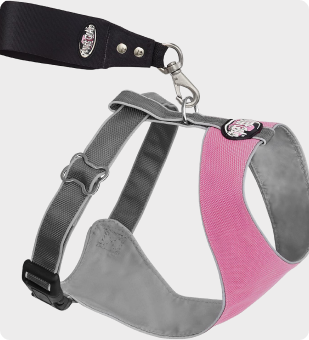
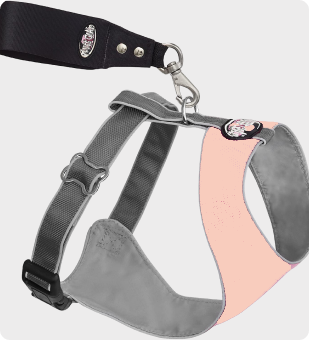
added images for remaining items

Changed region(s): [[0.6408, 0.3529, 0.9612, 0.9706], [0.7282, 0.3529, 0.7573, 0.3824]]

diff --git a/src/shared/items.js b/src/shared/items.js
@@ -1,5 +1,4 @@
 // Dog Harness
-// import StandardImage from '../assets/dogHarness.png'
 import BlackHarness from '../assets/blackHarness.png'
 import RedHarness from '../assets/redHarness.png'
 import PurpleHarness from '../assets/purpleHarness.png'
@@ -10,14 +9,29 @@ import CloseUpTwo from '../assets/dogCloseup.png'
 import Buckle from '../assets/buckle.png'
 // Cat Harness
 import CatHarness from '../assets/catHarness.png'
+import CatHarnessBlack from '../assets/catHarnessBlack.png'
+import CatHarnessPurple from '../assets/catHarnessPurple.png'
+import CatHarnessRed from '../assets/catHarnessRed.png'
 // GPS Collar
 import GPSCollar from '../assets/gpsCollar.png'
+import GPSCollarPink from '../assets/gpsCollarPink.png'
+import GPSCollarBlack from '../assets/gpsCollarBlack.png'
+import GPSCollarRed from '../assets/gpsCollarRed.png'
 // Food Storage
 import FoodStorage from '../assets/foodStorage.png'
+import FoodStorageBlack from '../assets/foodStorageBlack.png'
+import FoodStoragePurple from '../assets/foodStoragePurple.png'
+import FoodStorageRed from '../assets/foodStorageRed.png'
 // Water Storage
 import WaterStorage from '../assets/waterStorage.png'
-// Cat Backpack
-import CatBackpack from '../assets/catBackpack.png'
+import WaterStorageBlack from '../assets/waterStorageBlack.png'
+import WaterStoragePurple from '../assets/waterStoragePurple.png'
+import WaterStorageRed from '../assets/waterStorageRed.png'
+// Travel Backpack
+import TravelBackpack from '../assets/travelBackpack.png'
+import TravelBackpackBlack from '../assets/travelBackpackBlack.png'
+import TravelBackpackPurple from '../assets/travelBackpackPurple.png'
+import TravelBackpackRed from '../assets/travelBackpackRed.png'
 
 let Items = [
 {
@@ -50,9 +64,9 @@ let Items = [
   "details": "Soft, stretchy, and resilient. A cushioned, lightweight harness that’s simple to secure and easy to link up with. An adjustable neck and chest for all shapes and sizes. Three leash attachment points because we all lead in different ways. Probably the smartest harness.",
   "colors": {
     "Strawberry": CatHarness,
-    "Blackberry": "",
-    "Crazyberry": "",
-    "Fire Orange": "",
+    "Blackberry": CatHarnessBlack,
+    "Crazyberry": CatHarnessPurple,
+    "Fire Orange": CatHarnessRed,
   },
   "specs": {
     "Materials": "Soft stretch poly base, woven nylon straps, coated carbon steel D-rings."
@@ -65,10 +79,10 @@ let Items = [
   "price": 30,
   "details": "",
   "colors": {
-    "Strawberry": GPSCollar,
-    "Blackberry": "",
-    "Crazyberry": "",
-    "Fire Orange": "",
+    "Strawberry": GPSCollarPink,
+    "Blackberry": GPSCollarBlack,
+    "Crazyberry": GPSCollar,
+    "Fire Orange": GPSCollarRed,
   },
   "specs": {
     "materials": "Soft stretch poly base, woven nylon straps, coated carbon steel D-rings."
@@ -82,9 +96,9 @@ let Items = [
   "details": "",
   "colors": {
     "Strawberry": FoodStorage,
-    "Blackberry": "",
-    "Crazyberry": "",
-    "Fire Orange": "",
+    "Blackberry": FoodStorageBlack,
+    "Crazyberry": FoodStoragePurple,
+    "Fire Orange": FoodStorageRed,
   },
   "specs": {
     "materials": "Soft stretch poly base, woven nylon straps, coated carbon steel D-rings."
@@ -98,25 +112,25 @@ let Items = [
   "details": "",
   "colors": {
     "Strawberry": WaterStorage,
-    "Blackberry": "",
-    "Crazyberry": "",
-    "Fire Orange": "",
+    "Blackberry": WaterStorageBlack,
+    "Crazyberry": WaterStoragePurple,
+    "Fire Orange": WaterStorageRed,
   },
   "specs": {
     "materials": "Soft stretch poly base, woven nylon straps, coated carbon steel D-rings."
   }
 },
 {
-  "name": "Cat Backpack",
+  "name": "Travel Backpack",
   "type": "Backpack",
   "category": "accessories",
   "price": 60,
   "details": "",
   "colors": {
-    "Strawberry": CatBackpack,
-    "Blackberry": "",
-    "Crazyberry": "",
-    "Fire Orange": "",
+    "Strawberry": TravelBackpack,
+    "Blackberry": TravelBackpackBlack,
+    "Crazyberry": TravelBackpackPurple,
+    "Fire Orange": TravelBackpackRed,
   },
   "specs": {
     "materials": "Soft stretch poly base, woven nylon straps, coated carbon steel D-rings."

diff --git a/src/components/ProductDetails/ProductDetails.js b/src/components/ProductDetails/ProductDetails.js
@@ -26,7 +26,7 @@ function ImageSection ({item, changeColor, selectedColor, changeSize, selectedSi
     <div className='row'>
       <div className={styles.itemImgContainer}>
         <img src={item.colors[selectedColor]} alt='Large Harness' className={styles.itemImg} />
-        <CloseUps item={item} photos={item.closeups} />
+        {item.closeups ? <CloseUps item={item} photos={item.closeups} /> : null}
       </div>
       <div className={styles.itemDetailsContainer}>
         <div className='row'>
@@ -85,6 +85,28 @@ export default class ProductDetails extends React.Component {
 
     this.changeColor = this.changeColor.bind(this)
     this.changeSize = this.changeSize.bind(this)
+  }
+
+  componentDidMount() {
+    const { id } = queryString.parse(this.props.location.search)
+
+    this.setState({ 
+      item: Items[id],
+    })
+  }
+
+  componentDidUpdate(prevProps) {
+    const urlMatch = queryString.parse(this.props.location.search).id === queryString.parse(prevProps.location.search).id
+
+    if (!urlMatch) {
+      const { id } = queryString.parse(this.props.location.search)
+
+      this.setState({ 
+        item: Items[id],
+        color: "Strawberry",
+        size: "Tiny",
+      })
+    }
   }
 
   changeColor(color) {

diff --git a/src/components/ItemCard/ItemCard.js b/src/components/ItemCard/ItemCard.js
@@ -6,6 +6,7 @@ import FilledFavorites from '../../assets/filledHeart.png'
 import AddToCart from '../../assets/add-to-cart.png'
 import { CartConsumer } from '../../contexts/cart'
 import Items from '../../shared/items'
+import { getItemIndex } from '../../shared/Utils'
 
 export default class ItemCard extends React.Component {
   constructor(props) {
@@ -28,7 +29,7 @@ export default class ItemCard extends React.Component {
         {({ favorites, addToFavorites, removeFromFavorites }) => (
           <div className={styles.itemCard}>
             <div className={styles.heroContainer}>
-              <NavLink to='/item?id=0' >
+              <NavLink to={`/item?id=${getItemIndex(this.props.item)}`} >
                 {/* <img src={this.props.item.colors[this.state.color]} alt='item' className={styles.categoryImg} /> */}
                 <img src={this.props.item.colors['Strawberry']} alt='item' className={styles.categoryImg} />
               </NavLink>

diff --git a/src/components/Products/Products.js b/src/components/Products/Products.js
@@ -16,9 +16,6 @@ export default class Products extends React.Component {
       selectedItem: null,
     }
 
-    const { category } = queryString.parse(this.props.location.search)
-    console.log(getFilteredItems(category))
-
     this.openModal = this.openModal.bind(this)
     this.closeModal = this.closeModal.bind(this)
     this.renderModal = this.renderModal.bind(this)
@@ -32,7 +29,7 @@ export default class Products extends React.Component {
     })
   }
 
-  componentDidUpdate(prevProps, prevState) {
+  componentDidUpdate(prevProps) {
     const urlMatch = queryString.parse(this.props.location.search).category === queryString.parse(prevProps.location.search).category
 
     if (!urlMatch) {

diff --git a/src/shared/Utils.js b/src/shared/Utils.js
@@ -29,3 +29,7 @@ export const getFilteredItems = (category) => {
 
   return filteredItems
 }
+
+export const getItemIndex = (item) => {
+  return Items.indexOf(item)
+}
